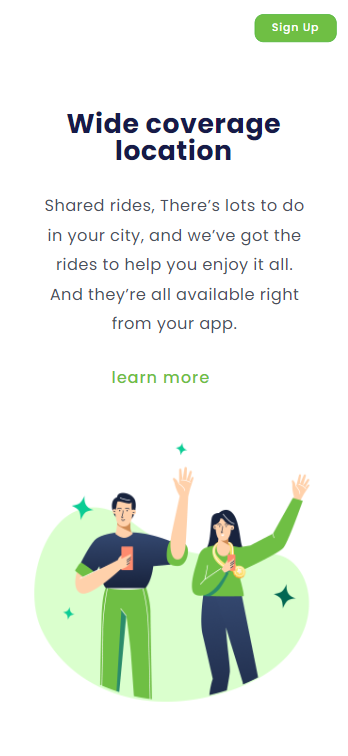
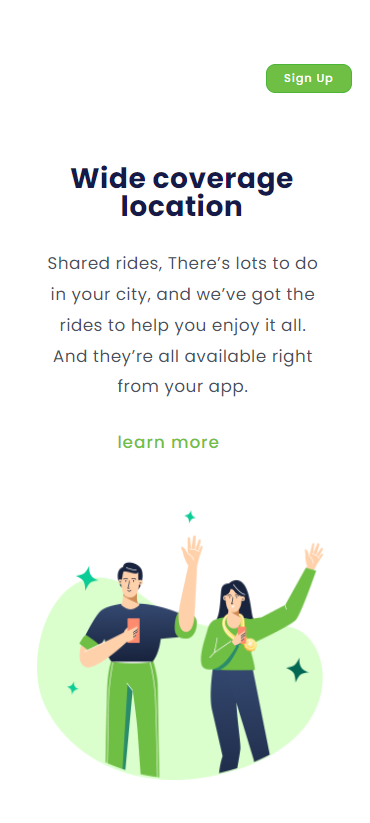
Upload de novas imagens

Changed region(s): [[0.1149, 0.1521, 0.8621, 0.5476], [0.0862, 0.578, 0.8908, 0.9735], [0.7184, 0.0, 0.977, 0.1217]]

diff --git a/index.html b/index.html
@@ -27,7 +27,7 @@
         <a class="link-section">learn more</a>
         </section>
 
-        <img src="./imgs/Desafio 1 logo.png" alt="img-logo" class="img-logodesafio">
+        <img src="./imgs/Logo Wide.png" alt="img-logo" class="img-logodesafio">
     </main>
 </body>
 </html>
